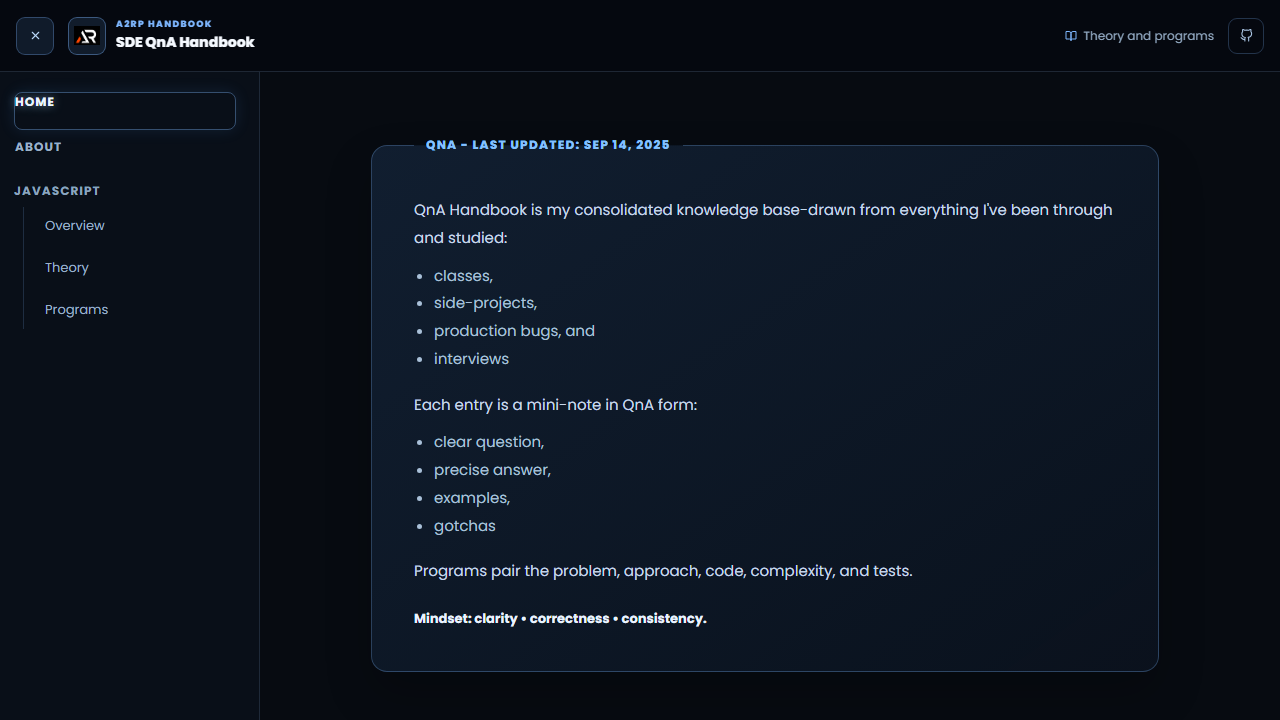
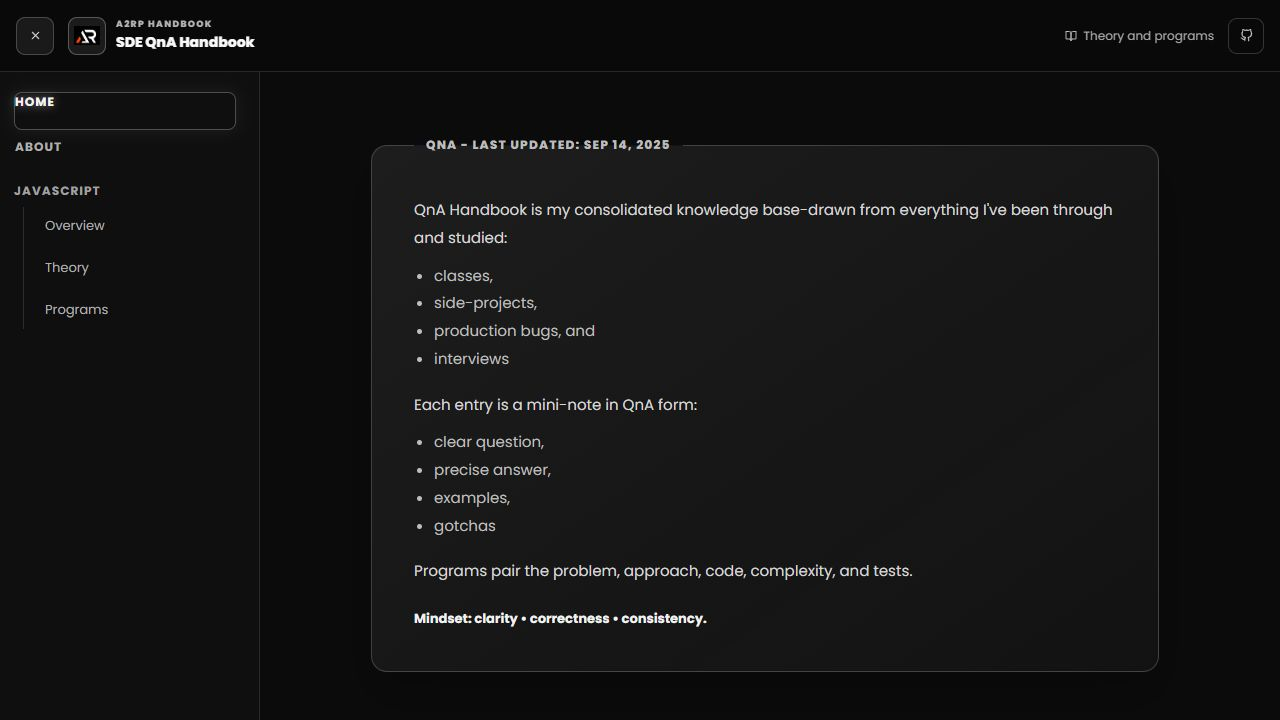
Make SDE handbook monochrome and refresh preview

diff --git a/src/App.styled.js b/src/App.styled.js
@@ -8,28 +8,28 @@ const stableScrollbar = css`
     &::-webkit-scrollbar-track { background: transparent; }
     &::-webkit-scrollbar-thumb { background: transparent; border: 3px solid transparent; border-radius: 8px; background-clip: content-box; }
     @media (hover: hover) {
-        &:hover { scrollbar-color: #5c7898 transparent; }
-        &:hover::-webkit-scrollbar-thumb { background: #45617d; }
+        &:hover { scrollbar-color: #767676 transparent; }
+        &:hover::-webkit-scrollbar-thumb { background: #5e5e5e; }
     }
     @media (hover: none) {
-        scrollbar-color: #45617d transparent;
-        &::-webkit-scrollbar-thumb { background: #45617d; }
+        scrollbar-color: #5e5e5e transparent;
+        &::-webkit-scrollbar-thumb { background: #5e5e5e; }
     }
 `;
 
 export const Styled = {
-    Wrapper: styled.div`position: relative; min-height: 100vh; background: #070b11; color: #e8f1ff;`,
-    Header: styled.header`position: fixed; inset: 0 0 auto; z-index: 30; height: 72px; border-bottom: 1px solid rgba(146, 183, 224, 0.18); background: rgba(5, 9, 15, 0.92); backdrop-filter: blur(16px);`,
+    Wrapper: styled.div`position: relative; min-height: 100vh; background: #0b0b0b; color: #f0f0f0;`,
+    Header: styled.header`position: fixed; inset: 0 0 auto; z-index: 30; height: 72px; border-bottom: 1px solid rgba(180, 180, 180, 0.18); background: rgba(9, 9, 9, 0.92); backdrop-filter: blur(16px);`,
     HeaderMain: styled.div`height: 100%; width: min(1280px, calc(100% - 32px)); margin: 0 auto; display: flex; align-items: center; gap: 14px;`,
-    NavLinkWrapper: styled.button`width: 38px; height: 38px; display: grid; place-items: center; flex: 0 0 auto; color: #b9d6f7; background: #101b2a; border: 1px solid rgba(126, 183, 255, 0.3); border-radius: 9px; cursor: pointer; transition: border-color 160ms ease, box-shadow 160ms ease, text-shadow 160ms ease; &:hover { border-color: #7eb7ff; box-shadow: 0 0 16px rgba(126, 183, 255, 0.18); text-shadow: 0 0 10px rgba(190, 224, 255, 0.7); } &:focus-visible { outline: 2px solid #7eb7ff; outline-offset: 2px; }`,
-    Brand: styled.a`display: inline-flex; align-items: center; gap: 10px; min-width: max-content; color: #f5f9ff; text-decoration: none; &:hover span { text-shadow: 0 0 14px rgba(126, 183, 255, 0.58); } img { width: 38px; height: 38px; padding: 5px; object-fit: contain; border: 1px solid rgba(126, 183, 255, 0.4); border-radius: 9px; background: #111c2b; } span { display: grid; gap: 1px; font-size: 14px; font-weight: 800; } small { color: #7eb7ff; font-size: 9px; letter-spacing: 0.15em; } &:focus-visible { outline: 2px solid #7eb7ff; outline-offset: 4px; }`,
-    HeaderMeta: styled.div`display: inline-flex; align-items: center; gap: 7px; margin-left: auto; color: #94abc4; font-size: 12px; svg { color: #7eb7ff; } @media (max-width: 680px) { display: none; }`,
+    NavLinkWrapper: styled.button`width: 38px; height: 38px; display: grid; place-items: center; flex: 0 0 auto; color: #d3d3d3; background: #1a1a1a; border: 1px solid rgba(180, 180, 180, 0.3); border-radius: 9px; cursor: pointer; transition: border-color 160ms ease, box-shadow 160ms ease, text-shadow 160ms ease; &:hover { border-color: #b4b4b4; box-shadow: 0 0 16px rgba(180, 180, 180, 0.18); text-shadow: 0 0 10px rgba(220, 220, 220, 0.7); } &:focus-visible { outline: 2px solid #b4b4b4; outline-offset: 2px; }`,
+    Brand: styled.a`display: inline-flex; align-items: center; gap: 10px; min-width: max-content; color: #f9f9f9; text-decoration: none; &:hover span { text-shadow: 0 0 14px rgba(180, 180, 180, 0.58); } img { width: 38px; height: 38px; padding: 5px; object-fit: contain; border: 1px solid rgba(180, 180, 180, 0.4); border-radius: 9px; background: #1b1b1b; } span { display: grid; gap: 1px; font-size: 14px; font-weight: 800; } small { color: #b4b4b4; font-size: 9px; letter-spacing: 0.15em; } &:focus-visible { outline: 2px solid #b4b4b4; outline-offset: 4px; }`,
+    HeaderMeta: styled.div`display: inline-flex; align-items: center; gap: 7px; margin-left: auto; color: #a8a8a8; font-size: 12px; svg { color: #b4b4b4; } @media (max-width: 680px) { display: none; }`,
     HeaderLinks: styled.div`display: flex; gap: 8px;`,
-    HeaderLink: styled.a`width: 36px; height: 36px; display: grid; place-items: center; color: #a9c4e3; border: 1px solid rgba(126, 183, 255, 0.25); border-radius: 9px; transition: color 160ms ease, border-color 160ms ease, box-shadow 160ms ease; &:hover { color: #fff; border-color: #7eb7ff; box-shadow: 0 0 16px rgba(126, 183, 255, 0.2); } &:focus-visible { outline: 2px solid #7eb7ff; outline-offset: 2px; }`,
+    HeaderLink: styled.a`width: 36px; height: 36px; display: grid; place-items: center; color: #c1c1c1; border: 1px solid rgba(180, 180, 180, 0.25); border-radius: 9px; transition: color 160ms ease, border-color 160ms ease, box-shadow 160ms ease; &:hover { color: #fff; border-color: #b4b4b4; box-shadow: 0 0 16px rgba(180, 180, 180, 0.2); } &:focus-visible { outline: 2px solid #b4b4b4; outline-offset: 2px; }`,
     Main: styled.div`height: 100vh; padding-top: 72px; display: flex; align-items: stretch; overflow: hidden;`,
-    NavWrapper: styled.aside`width: 0; flex: 0 0 0; overflow: hidden; z-index: 24; background: #090f18; border-right: 1px solid transparent; transition: width 180ms ease, flex-basis 180ms ease, border-color 180ms ease; &.active { width: 260px; flex-basis: 260px; border-color: rgba(146, 183, 224, 0.16); } .navInner { width: 260px; height: 100%; overflow-y: auto; padding: 20px 14px; ${stableScrollbar}; } @media (max-width: 900px) { position: fixed; top: 72px; left: 0; height: calc(100vh - 72px); box-shadow: 18px 0 32px rgba(0, 0, 0, 0.3); } @media (max-width: 560px) { &.active { width: 236px; flex-basis: 236px; } .navInner { width: 236px; } }`,
+    NavWrapper: styled.aside`width: 0; flex: 0 0 0; overflow: hidden; z-index: 24; background: #0f0f0f; border-right: 1px solid transparent; transition: width 180ms ease, flex-basis 180ms ease, border-color 180ms ease; &.active { width: 260px; flex-basis: 260px; border-color: rgba(180, 180, 180, 0.16); } .navInner { width: 260px; height: 100%; overflow-y: auto; padding: 20px 14px; ${stableScrollbar}; } @media (max-width: 900px) { position: fixed; top: 72px; left: 0; height: calc(100vh - 72px); box-shadow: 18px 0 32px rgba(0, 0, 0, 0.3); } @media (max-width: 560px) { &.active { width: 236px; flex-basis: 236px; } .navInner { width: 236px; } }`,
     ContentWrapper: styled.div`width: 100%; min-width: 0; overflow: auto; scroll-behavior: smooth; ${stableScrollbar};`,
     RoutesWrapper: styled.div`min-height: calc(100% - 1px);`,
-    Loading: styled.div`min-height: 50vh; display: grid; place-content: center; justify-items: center; gap: 12px; color: #9cb4cf; font-size: 12px;`,
+    Loading: styled.div`min-height: 50vh; display: grid; place-content: center; justify-items: center; gap: 12px; color: #b1b1b1; font-size: 12px;`,
     Footer: styled.div`padding: 16px 24px 28px; @media (max-width: 600px) { padding: 14px 16px 24px; }`,
 };

diff --git a/src/components/footer/styled.js b/src/components/footer/styled.js
@@ -1,11 +1,11 @@
 import styled from "styled-components";
 
 export const Styled = {
-    Wrapper: styled.footer`padding: 20px 0 4px; border-top: 1px solid rgba(146, 183, 224, 0.16); background: rgba(5, 9, 15, 0.55);`,
-    FooterTop: styled.div`display: flex; align-items: center; justify-content: space-between; gap: 16px; padding-bottom: 17px; border-bottom: 1px solid rgba(146, 183, 224, 0.14); @media (max-width: 620px) { align-items: flex-start; flex-direction: column; }`,
+    Wrapper: styled.footer`padding: 20px 0 4px; border-top: 1px solid rgba(180, 180, 180, 0.16); background: rgba(9, 9, 9, 0.55);`,
+    FooterTop: styled.div`display: flex; align-items: center; justify-content: space-between; gap: 16px; padding-bottom: 17px; border-bottom: 1px solid rgba(180, 180, 180, 0.14); @media (max-width: 620px) { align-items: flex-start; flex-direction: column; }`,
     Title: styled.strong`font-size: 14px;`,
-    Copyright: styled.span`color: #94a9c0; font-size: 12px; a { color: #e9f2ff; font-weight: 800; text-decoration: none; &:hover { color: #7eb7ff; text-shadow: 0 0 12px rgba(126, 183, 255, 0.55); } }`,
-    Groups: styled.div`display: grid; grid-template-columns: 1fr 1fr; gap: 24px; padding-top: 17px; @media (max-width: 620px) { grid-template-columns: 1fr; } > div { display: flex; align-items: center; gap: 12px; > span { color: #94a9c0; font-size: 10px; font-weight: 800; letter-spacing: 0.12em; text-transform: uppercase; } }`,
+    Copyright: styled.span`color: #a7a7a7; font-size: 12px; a { color: #f1f1f1; font-weight: 800; text-decoration: none; &:hover { color: #b4b4b4; text-shadow: 0 0 12px rgba(180, 180, 180, 0.55); } }`,
+    Groups: styled.div`display: grid; grid-template-columns: 1fr 1fr; gap: 24px; padding-top: 17px; @media (max-width: 620px) { grid-template-columns: 1fr; } > div { display: flex; align-items: center; gap: 12px; > span { color: #a7a7a7; font-size: 10px; font-weight: 800; letter-spacing: 0.12em; text-transform: uppercase; } }`,
     IconLinks: styled.div`display: flex; flex-wrap: wrap; gap: 7px;`,
-    IconLink: styled.a`width: 31px; height: 31px; display: grid; place-items: center; color: #91a8c0; border: 1px solid rgba(142, 178, 218, 0.22); border-radius: 8px; transition: color 160ms ease, border-color 160ms ease, box-shadow 160ms ease, text-shadow 160ms ease; &:hover { color: #8bc8ff; border-color: #8bc8ff; box-shadow: 0 0 16px rgba(139, 200, 255, 0.18); text-shadow: 0 0 10px rgba(139, 200, 255, 0.72); } &:focus-visible { outline: 2px solid #7eb7ff; outline-offset: 2px; }`,
+    IconLink: styled.a`width: 31px; height: 31px; display: grid; place-items: center; color: #a5a5a5; border: 1px solid rgba(175, 175, 175, 0.22); border-radius: 8px; transition: color 160ms ease, border-color 160ms ease, box-shadow 160ms ease, text-shadow 160ms ease; &:hover { color: #c2c2c2; border-color: #c2c2c2; box-shadow: 0 0 16px rgba(194, 194, 194, 0.18); text-shadow: 0 0 10px rgba(194, 194, 194, 0.72); } &:focus-visible { outline: 2px solid #b4b4b4; outline-offset: 2px; }`,
 };

diff --git a/src/components/navList/styled.js b/src/components/navList/styled.js
@@ -4,9 +4,9 @@ export const Styled = {
     Nav: styled.nav`
         display: grid;
         gap: 7px;
-        h2 { margin: 0; color: #8ba4bf; font-size: 12px; letter-spacing: 0.09em; text-transform: uppercase; }
-        h2 a, li a { display: flex; align-items: center; min-height: 38px; padding: 8px 10px; color: #9cb1c8; border: 1px solid transparent; border-radius: 8px; text-decoration: none; transition: color 160ms ease, border-color 160ms ease, box-shadow 160ms ease, text-shadow 160ms ease; &.active, &:hover { color: #ecf5ff; border-color: rgba(126, 183, 255, 0.38); box-shadow: 0 0 16px rgba(94, 161, 255, 0.12); text-shadow: 0 0 10px rgba(166, 213, 255, 0.6); } }
-        ul { display: grid; gap: 4px; margin: 0 0 8px 9px; padding: 0 0 0 10px; border-left: 1px solid rgba(126, 183, 255, 0.18); list-style: none; }
+        h2 { margin: 0; color: #a1a1a1; font-size: 12px; letter-spacing: 0.09em; text-transform: uppercase; }
+        h2 a, li a { display: flex; align-items: center; min-height: 38px; padding: 8px 10px; color: #afafaf; border: 1px solid transparent; border-radius: 8px; text-decoration: none; transition: color 160ms ease, border-color 160ms ease, box-shadow 160ms ease, text-shadow 160ms ease; &.active, &:hover { color: #f4f4f4; border-color: rgba(180, 180, 180, 0.38); box-shadow: 0 0 16px rgba(160, 160, 160, 0.12); text-shadow: 0 0 10px rgba(208, 208, 208, 0.6); } }
+        ul { display: grid; gap: 4px; margin: 0 0 8px 9px; padding: 0 0 0 10px; border-left: 1px solid rgba(180, 180, 180, 0.18); list-style: none; }
         li { margin: 0; }
     `,
 };

diff --git a/src/pages/home/styled.js b/src/pages/home/styled.js
@@ -5,10 +5,10 @@ export const Styled = {
         max-width: 920px;
         padding: clamp(24px, 5vw, 64px);
         margin: 0 auto;
-        fieldset { padding: clamp(22px, 4vw, 42px); border: 1px solid rgba(126, 183, 255, 0.28); border-radius: 16px; background: linear-gradient(145deg, rgba(19, 33, 52, 0.88), rgba(11, 19, 31, 0.86)); box-shadow: 0 22px 46px rgba(0, 0, 0, 0.22); }
-        legend { padding: 0 12px; color: #84c1ff; font-size: 12px; font-weight: 800; letter-spacing: 0.1em; text-transform: uppercase; }
-        div { color: #c7d8eb; font-size: 15px; line-height: 1.85; }
-        ul { margin: 10px 0 18px; padding-left: 20px; color: #a9c0d8; }
-        p { margin: 24px 0 0; color: #eaf3ff; font-weight: 700; }
+        fieldset { padding: clamp(22px, 4vw, 42px); border: 1px solid rgba(180, 180, 180, 0.28); border-radius: 16px; background: linear-gradient(145deg, rgba(32, 32, 32, 0.88), rgba(19, 19, 19, 0.86)); box-shadow: 0 22px 46px rgba(0, 0, 0, 0.22); }
+        legend { padding: 0 12px; color: #bcbcbc; font-size: 12px; font-weight: 800; letter-spacing: 0.1em; text-transform: uppercase; }
+        div { color: #d6d6d6; font-size: 15px; line-height: 1.85; }
+        ul { margin: 10px 0 18px; padding-left: 20px; color: #bdbdbd; }
+        p { margin: 24px 0 0; color: #f2f2f2; font-weight: 700; }
     `,
 };

diff --git a/index.html b/index.html
@@ -3,7 +3,7 @@
     <head>
         <meta charset="UTF-8" />
         <meta name="viewport" content="width=device-width, initial-scale=1.0" />
-        <meta name="theme-color" content="#070b11" />
+        <meta name="theme-color" content="#0b0b0b" />
         <meta name="description" content="A practical SDE QnA handbook for JavaScript, React, Node, theory, and coding programs." />
         <link rel="icon" href="/sde-qna-handbook/favicon.ico" />
         <link rel="apple-touch-icon" href="/sde-qna-handbook/logo.png" />

diff --git a/src/index.css b/src/index.css
@@ -10,7 +10,7 @@ body,
 
 html { scroll-behavior: smooth; }
 
-body { margin: 0; overflow: hidden; background: #070b11; color: #e8f1ff; font-family: "Poppins", ui-sans-serif, system-ui, sans-serif; font-size: 13px; -webkit-font-smoothing: antialiased; }
+body { margin: 0; overflow: hidden; background: #0b0b0b; color: #f0f0f0; font-family: "Poppins", ui-sans-serif, system-ui, sans-serif; font-size: 13px; -webkit-font-smoothing: antialiased; }
 
 button,
 a { font: inherit; }

diff --git a/src/pages/about/styled.js b/src/pages/about/styled.js
@@ -1,7 +1,7 @@
 import styled from "styled-components";
 
 const Wrapper = styled.div`
-    background-color: #010409;
+    background-color: #040404;
     color: #aaa;
     margin-top: 50px;
     overflow: hidden;

diff --git a/README.md b/README.md
@@ -1,5 +1,7 @@
 # SDE QnA Handbook
 
+![SDE QnA Handbook preview](screenshot.png)
+
 A practical revision handbook for software development interview theory and programs.
 
 ## Features
@@ -26,7 +28,6 @@ Create a production build with `npm run build`. Deploy to GitHub Pages with `npm
 
 [Open the SDE QnA Handbook](https://a2rp.github.io/sde-qna-handbook/)
 
-![SDE QnA Handbook preview](screenshot.png)
 
 ## Links
 
